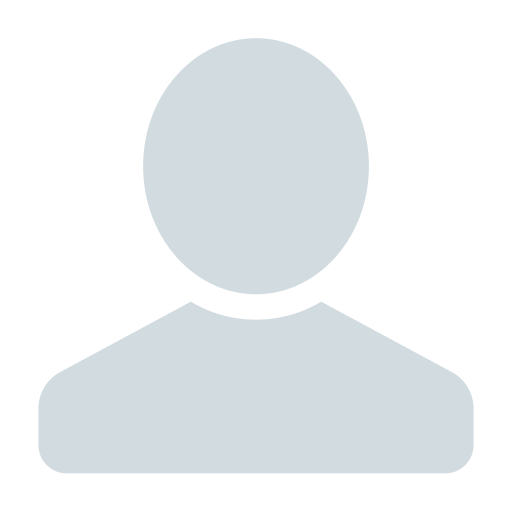
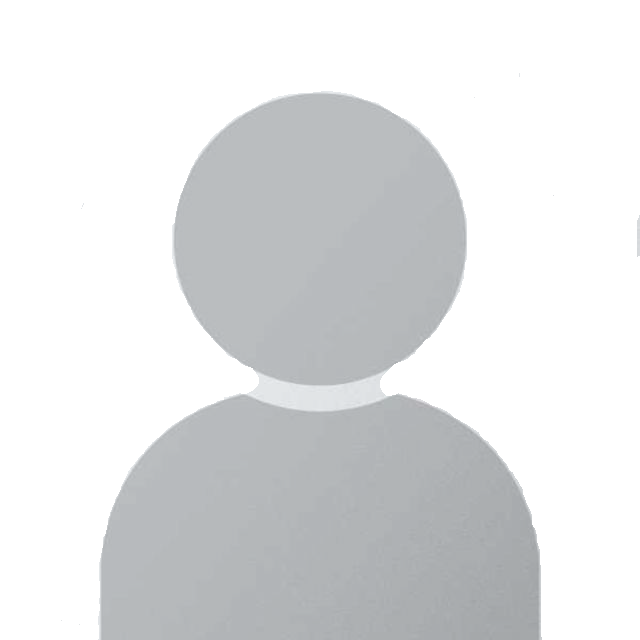
issue#14 Agregar Foto Perfil

diff --git a/src/app/usuario/usuario.component.ts b/src/app/usuario/usuario.component.ts
@@ -6,6 +6,9 @@ import { Validators, FormGroup, FormBuilder } from '@angular/forms';
 import { MatSnackBar } from '@angular/material';
 import { MatTableDataSource, MatDialog, } from '@angular/material';
 import { UsuarioDeleteDialogComponent } from './dialogos/usuario-delete-dialog.component';
+import { HttpResponse, HttpEventType, HttpErrorResponse } from '@angular/common/http';
+import { Constantes } from '../core/constantes';
+import { UploadFileService } from '../servicios/upload-file.service';
 
 @Component({
   selector: 'app-usuario',
@@ -16,11 +19,16 @@ export class UsuarioComponent implements OnInit {
   userSession: any;
   usuario: Usuario;
   usuarioForm: FormGroup;
+  fotoTemp = '';
+  selectedFiles: FileList;
+  currentFileUpload: File;
+  progress: { percentage: number } = { percentage: 0 };
   constructor(private authService: AuthService,
     private usuarioService: UsuarioService,
     private formBuilder: FormBuilder,
     private snackBar: MatSnackBar,
-    private usuarioDeleteDialog: MatDialog) {
+    private usuarioDeleteDialog: MatDialog,
+    private uploadFileService: UploadFileService) {
     this.usuario = { username: '', password: '', correo: '' };
   }
 
@@ -52,6 +60,7 @@ export class UsuarioComponent implements OnInit {
   }
 
   tabActual(value) {
+    this.currentFileUpload = null;
     this.createForm();
   }
 
@@ -98,6 +107,8 @@ export class UsuarioComponent implements OnInit {
     this.usuarioService.getUsuario(this.userSession.usuario).subscribe(
       u => {
         this.usuario = u;
+        this.fotoTemp = u.foto;
+        this.usuario.foto = Constantes.URIFILE + this.usuario.foto;
       }
     );
   }
@@ -109,10 +120,58 @@ export class UsuarioComponent implements OnInit {
       password: formModel.password,
       nombre: formModel.nombre,
       apellido: formModel.apellido,
-      correo: formModel.correo
+      correo: formModel.correo,
+      foto: this.fotoTemp
     };
     return controlMap;
   }
+
+
+  onSelectFile(event) {
+
+    if (event.target.files && event.target.files[0]) {
+      const reader = new FileReader();
+
+      reader.readAsDataURL(event.target.files[0]); // read file as data url
+
+      reader.onload = (event: any) => { // called once readAsDataURL is completed
+        this.usuario.foto = event.target.result;
+      }
+
+      this.selectedFiles = event.target.files;
+    }
+  }
+
+
+  onUpload() {
+    this.progress.percentage = 0;
+    this.currentFileUpload = this.selectedFiles.item(0);
+    this.uploadFileService.pushFileToStorage(this.currentFileUpload).subscribe(
+      event => {
+        if (event.type === HttpEventType.UploadProgress) {
+          this.progress.percentage = this.uploadFileService.calcProgressPercent(event);
+        } else if (event instanceof HttpResponse) {
+          this.usuario.foto = this.currentFileUpload.name;
+          this.usuarioService.editar(this.userSession.usuario, this.usuario).subscribe(
+            () => {
+              this.openSnackBar('OK.!', 'Foto actualizada correctamente');
+              this.sincronizarData();
+            },
+            error => {
+              this.openSnackBar('UPS!!!', 'Intentelo más tarde');
+              console.log(error);
+            }
+          );
+          this.usuario.foto = Constantes.URIFILE + this.usuario.foto;
+        } else if (event instanceof HttpErrorResponse) {
+          this.openSnackBar('UPS!!!', 'Intentelo más tarde');
+        }
+      });
+
+    this.selectedFiles = undefined;
+  }
+
+
 
   openDialog(): void {
     this.usuarioDeleteDialog.open(UsuarioDeleteDialogComponent);

diff --git a/src/app/usuario/usuario.component.html b/src/app/usuario/usuario.component.html
@@ -11,9 +11,28 @@
                   <mat-card-title>Usuario</mat-card-title>
                   <mat-card-subtitle>{{this.usuario.username}}</mat-card-subtitle>
                 </mat-card-header>
-                <img mat-card-image src="https://scontent.fmad8-1.fna.fbcdn.net/v/t1.0-9/19510451_10213341195146988_8076940860224184211_n.jpg?_nc_cat=0&oh=c9c5f0550befb3c17547a59537abf9d8&oe=5BC2FD53"
-                  alt="Perfil">
+                <img mat-card-image [src]="this.usuario.foto" height="350" alt="Perfil">
+                <div *ngIf="currentFileUpload" class="progress">
+                  <div class="progress-bar progress-bar-info progress-bar-striped" role="progressbar" attr.aria-valuenow="{{progress.percentage}}"
+                    aria-valuemin="0" aria-valuemax="100" [ngStyle]="{width:progress.percentage+'%'}">
+                    {{progress.percentage}}%</div>
+                  <mat-progress-bar *ngIf="currentFileUpload" class="example-margin" color="primary" mode="determinate" [value]="progress.percentage">
+                  </mat-progress-bar>
+                </div>
+                <input #fileInput type="file" style="display:none" (change)="onSelectFile($event)" />
+                <button [disabled]="disable" *ngIf="!selectedFiles" matTooltip="Cambiar Imagen" mat-button  color="primary" (click)="fileInput.click()">
+                  <span>Cambiar imagen</span>
+                  <mat-icon>camera_alt</mat-icon>
+                </button>
+                <button *ngIf="selectedFiles" matTooltip="Guardar"  mat-button color="primary" (click)="onUpload()">
+                  <span>Guardar imagen</span>
+                  <mat-icon>cloud_upload</mat-icon>
+                </button>
+                <mat-divider></mat-divider>    
+                <mat-divider></mat-divider>
+               
                 <mat-card-content>
+                    <br>
                   <p>
                     <strong> Nombres y Apellidos: </strong>
                     {{this.usuario.nombre}} {{this.usuario.apellido}}
@@ -25,7 +44,7 @@
                 </mat-card-content>
                 <mat-divider></mat-divider>
                 <mat-card-actions>
-                  <button mat-button  matTooltip="Eliminar" (click)="openDialog()" color="primary">
+                  <button mat-button matTooltip="Eliminar Usuario" (click)="openDialog()" color="primary">
                     <span>Eliminar</span>
                     <mat-icon>cancel</mat-icon>
                   </button>
@@ -55,12 +74,12 @@
                   <input matInput formControlName="nombre" placeholder="Nombre" required>
                 </mat-form-field>
                 <mat-form-field>
-                  <input matInput formControlName="apellido"  placeholder="Apellido" required>
+                  <input matInput formControlName="apellido" placeholder="Apellido" required>
                 </mat-form-field>
                 <mat-form-field>
-                    <input  matInput formControlName="correo" placeholder="Correo" type="mail" pattern="^\w+([\.-]?\w+)*@\w+([\.-]?\w+)*(\.\w{2,3})+$"
-                      required>
-                  </mat-form-field>
+                  <input matInput formControlName="correo" placeholder="Correo" type="mail" pattern="^\w+([\.-]?\w+)*@\w+([\.-]?\w+)*(\.\w{2,3})+$"
+                    required>
+                </mat-form-field>
               </div>
               <mat-dialog-actions>
                 <button mat-button type="submit" mat-raised-button color="primary">Editar</button>

diff --git a/src/app/control-crecimiento/control-crecimiento.component.ts b/src/app/control-crecimiento/control-crecimiento.component.ts
@@ -7,7 +7,6 @@ import { PercentilOmsComponent } from '../percentil-oms/percentil-oms.component'
 import { Persona } from '../persona/persona.model';
 import { PersonaService } from '../persona/persona.service';
 import { AuthService } from '../servicios/auth.service';
-import { Router } from '@angular/router';
 import { HttpResponse, HttpEventType, HttpErrorResponse } from '@angular/common/http';
 import { Constantes } from '../core/constantes';
 import { UploadFileService } from '../servicios/upload-file.service';
@@ -18,7 +17,6 @@ import { UploadFileService } from '../servicios/upload-file.service';
   styleUrls: ['./control-crecimiento.component.css']
 })
 export class ControlCrecimientoComponent implements OnInit {
-  // pathFotoPersona = '../../assets/img/personas/';
   tipo: any;
   userSession: any;
   dataSourceControles: MatTableDataSource<ControlCrecimiento>;
@@ -28,8 +26,6 @@ export class ControlCrecimientoComponent implements OnInit {
   controlForm: FormGroup;
   idPersona: number;
   controlesCrecimiento: ControlCrecimiento[];
-  percentDone: number;
-  uploadSuccess: boolean;
   selectedFiles: FileList;
   currentFileUpload: File;
   progress: { percentage: number } = { percentage: 0 };
@@ -53,7 +49,6 @@ export class ControlCrecimientoComponent implements OnInit {
   ngOnInit() {
 
     this.userSession = JSON.parse(localStorage.getItem(AuthService.tokenKey));
-    //TODO:Pendiente de mejorar la parte control de la session
     if (this.userSession !== null) {
       this.authService.loggedIn.next(true);
     } else {

diff --git a/src/app/core/constantes.ts b/src/app/core/constantes.ts
@@ -5,4 +5,5 @@ export class Constantes {
     static fotoDefaultNinia = 'ninia.jpg';
     static fotoDefaultNN = '../../assets/img/sinfoto.jpg';
     static URIFILE = 'http://localhost:8080/api/v0/file/';
+    static perfilDefault = 'perfil0000.jpg';
 }
